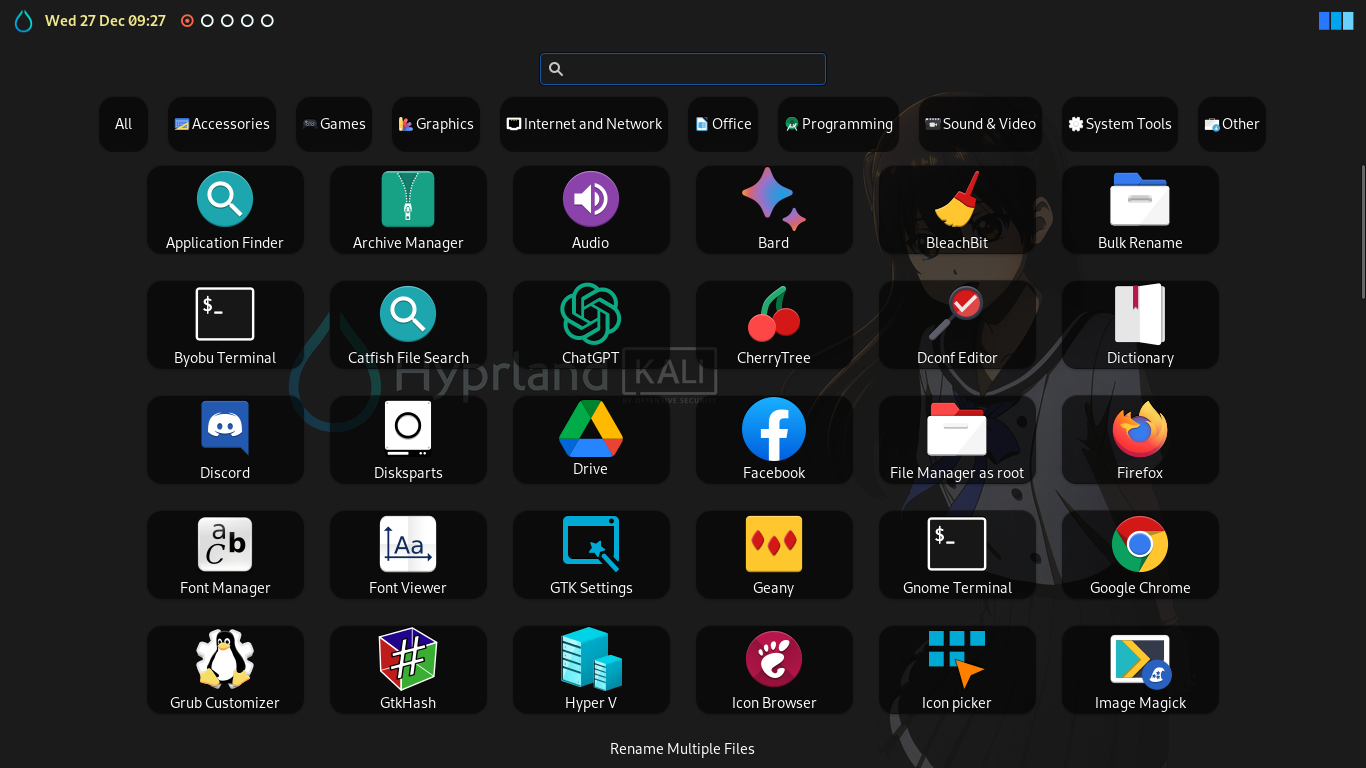
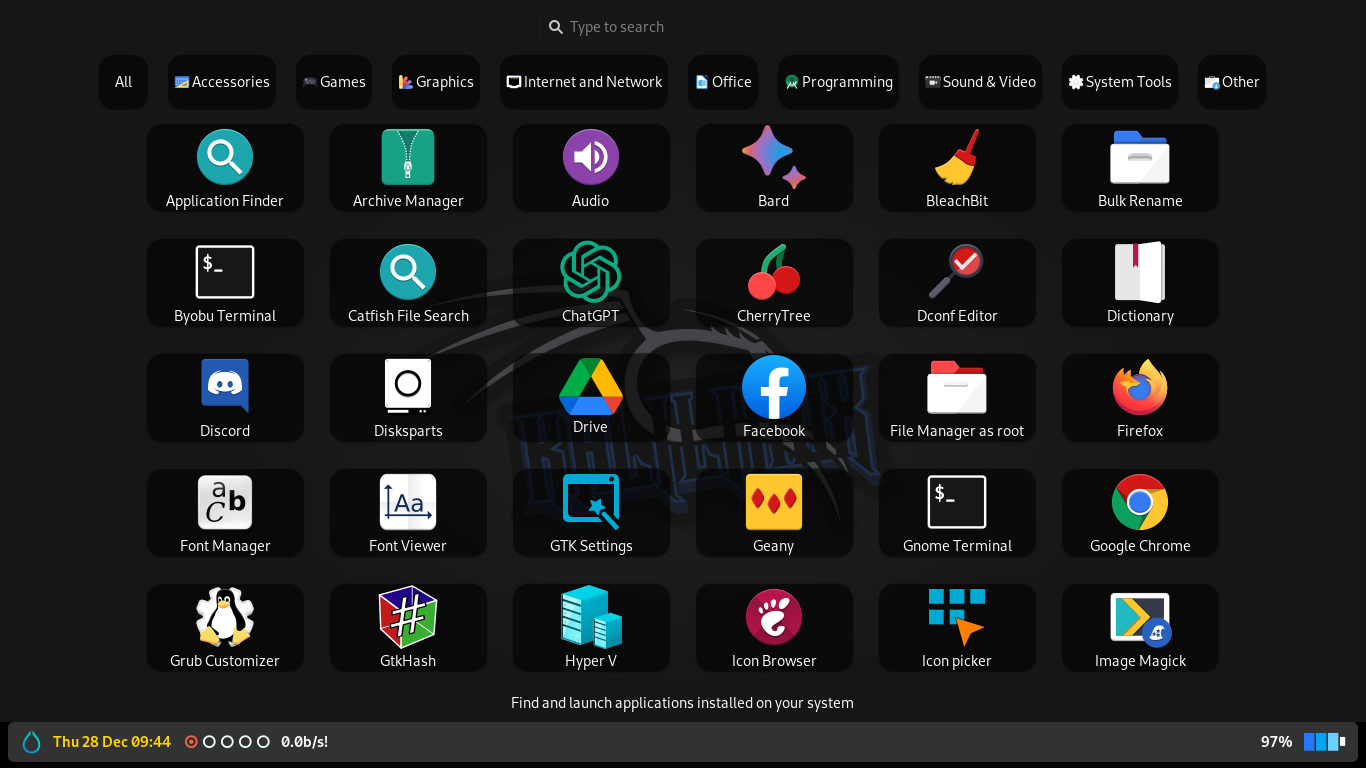
Add

diff --git a/config/waybar/style/style-costume-clear.css b/config/waybar/style/style-costume-clear.css
@@ -8,122 +8,128 @@
     padding: 1px;
     margin-top: 1px;
     margin-bottom: 1px;
-    }
-    
-    window#waybar {
-        background-color: rgba(0, 0, 0, 0);
-        border-radius: 0;
-        transition-property: background-color;
-        transition-duration: .5s;
-    }
-    
-    window#waybar.hidden {
-        opacity: 0.1;
-    }
-    
-    window#waybar.empty {
-        background-color: transparent;
-    }
-    
-    window#waybar.empty #window {
-        background-color: transparent;
-        border: 0px;
-        padding: 0px;
-        margin: 0px;
-    }
-    
-    #backlight,
-    #battery,
-    #bluetooth,
-    #cava,
-    #clock,
-    #cpu,
-    #disk,
-    #idle_inhibitor,
-    #keyboard-state label,
-    #keyboard-state label.locked,
-    #keyboard-state,
-    #memory,
-    #mode,
-    #mpd,
-    #network,
-    #pulseaudio,
-    #taskbar button,
-    #taskbar,
-    #temperature,
-    #tray,
-    #window,
-    #wireplumber,
-    #workspaces,
-    #custom-cycle_wall,
-    #custom-keybinds,
-    #custom-light_dark,
-    #custom-lock,
-    #custom-menu,
-    #custom-power_vertical,
-    #custom-power,
-    #custom-spotify,
-    #custom-updater,
-    #custom-weather,
-    #custom-weather.clearNight,
-    #custom-weather.cloudyFoggyDay,
-    #custom-weather.cloudyFoggyNight,
-    #custom-weather.default 
-    #custom-weather.rainyDay,
-    #custom-weather.rainyNight,
-    #custom-weather.severe,
-    #custom-weather.showyIcyDay,
-    #custom-weather.snowyIcyNight,
-    #custom-weather.sunnyDay 
-    {
-        background-color:transparent;
-        padding: 0px 10px;
-    }
-    
-    #window, #workspaces {
-        margin: 0 -10px;
-    }
-    
-    .modules-left > widget:first-child > #workspaces {
-        margin-left: 0;
-    }
-    
-    .modules-right > widget:last-child > #workspaces {
-        margin-right: 0;
-    }
-    
-    #clock {
-        color: azure;
-    }
-    
-    #workspaces button.persistent {
-        color: khaki;
-        border-radius: 0px;
-    }
-      
-    #workspaces button.active {
-        color: violet;
-        border-radius: 0px;
-    }
-    
-    #custom-menu {
-        background-image: url('~/.config/waybar/custom_modules/hyprland.png'); /* link to your home user */
-        background-position: center;
-        background-repeat: no-repeat;
-        background-size: contain;
-        margin-left: 10px;
-        border-radius: 5px;
-    }
-    
-    #custom-color1 {
-        color: #2777ff;
-    }
-    
-    #custom-color2 {
-        color: #00a4ef;
-    }
-    
-    #custom-color3 {
-        color: #6ad0ff;
-        margin-right: 10px;
-    }
+}
+
+window#waybar {
+    /* background-color: rgba(0, 0, 0, 0); */
+    background-color: rgba(100, 100, 100, 0.500);
+    border-radius: 6px;
+    transition-property: background-color;
+    transition-duration: .5s;
+}
+
+window#waybar.hidden {
+    opacity: 0.1;
+}
+
+window#waybar.empty {
+    background-color: transparent;
+}
+
+window#waybar.empty #window {
+    background-color: transparent;
+    border: 0px;
+    padding: 0px;
+    margin: 0px;
+}
+
+#backlight,
+#battery,
+#bluetooth,
+#cava,
+#clock,
+#cpu,
+#disk,
+#idle_inhibitor,
+#keyboard-state label,
+#keyboard-state label.locked,
+#keyboard-state,
+#memory,
+#mode,
+#mpd,
+#network,
+#pulseaudio,
+#taskbar button,
+#taskbar,
+#temperature,
+#tray,
+#window,
+#wireplumber,
+#workspaces,
+#custom-cycle_wall,
+#custom-keybinds,
+#custom-light_dark,
+#custom-lock,
+#custom-menu,
+#custom-power_vertical,
+#custom-power,
+#custom-spotify,
+#custom-updater,
+#custom-weather,
+#custom-weather.clearNight,
+#custom-weather.cloudyFoggyDay,
+#custom-weather.cloudyFoggyNight,
+#custom-weather.default 
+#custom-weather.rainyDay,
+#custom-weather.rainyNight,
+#custom-weather.severe,
+#custom-weather.showyIcyDay,
+#custom-weather.snowyIcyNight,
+#custom-weather.sunnyDay 
+{
+    background-color: transparent;
+    padding: 0px 10px;
+}
+
+#window, #workspaces {
+    margin: 0 -10px;
+}
+
+.modules-left > widget:first-child > #workspaces {
+    margin-left: 0;
+}
+
+.modules-right > widget:last-child > #workspaces {
+    margin-right: 0;
+}
+
+#clock {
+    color: azure;
+}
+
+#workspaces button.persistent {
+    color: khaki;
+    border-radius: 0px;
+}
+
+#workspaces button.active {
+    color: violet;
+    border-radius: 0px;
+}
+
+#custom-menu {
+    background-image: url('~/.config/waybar/custom_modules/hyprland.png'); /* link to your home user */
+    background-position: center;
+    background-repeat: no-repeat;
+    background-size: contain;
+    margin-left: 10px;
+    border-radius: 6px;
+}
+
+#custom-color1 {
+    color: #2777ff;
+}
+
+#custom-color2 {
+    color: #00a4ef;
+}
+
+#custom-color3 {
+    color: #6ad0ff;
+}
+
+#custom-color4 {
+    color: #ffffff;
+    margin-right: 10px;
+    font-size: 50%;
+}

diff --git a/TREE.md b/TREE.md
@@ -456,6 +456,8 @@
 │           └── winkex.tar.bz2
 ├── README.md
 ├── src
+│   ├── cat-on-line.png
+│   ├── compact-desktop.png
 │   ├── menu.png
 │   ├── sample.png
 │   ├── sddm.png
@@ -481,7 +483,7 @@
     ├── Y6alADq.jpg
     └── Yr0p4jm.jpg
 
-68 directories, 413 files
+68 directories, 415 files
 ```
 
-![](src/cat-on-line.png)
+<p align="center"> <img src="src/cat-on-line.png"> </p>

diff --git a/README.md b/README.md
@@ -27,7 +27,7 @@
 # Dependencies
 
 - **Shell** : zsh
-- **Terminal** : kitty
+- **Terminal** : xfce4-terminal
 - **Text Editor** : code
 - **Image Viewer** : shotwell
 - **Media Player** : vlc
@@ -62,6 +62,7 @@
   - gnome-terminal
   - google-chrome-stable
   - htop
+  - kitty
   - logo-ls
   - microsoft-edge-stable
   - neofetch
